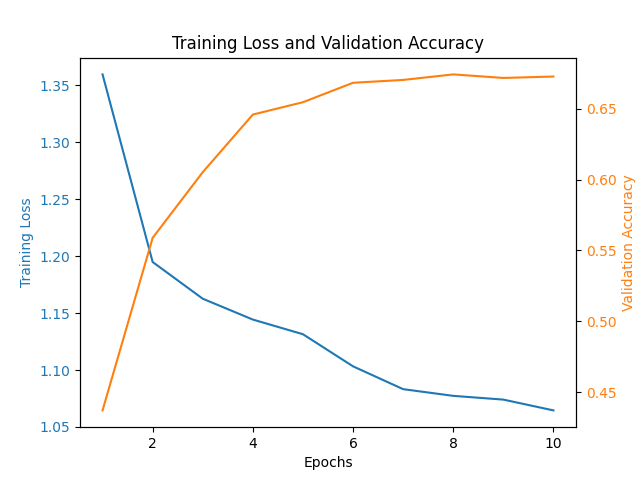
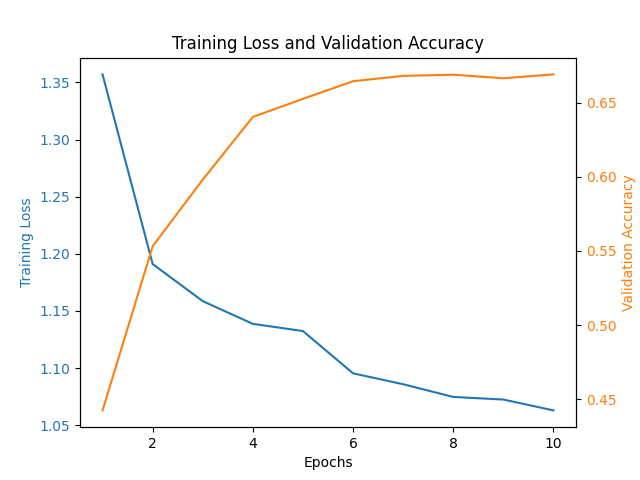
Added the hyperparameter training.

diff --git a/hyperparameter-training.py b/hyperparameter-training.py
@@ -1,0 +1,185 @@
+
+#learn rate and batch sizes
+for learn_rate in [1e-2,1e-3,1e-4]:
+  for batch_sizes in [64,128,256]:
+    import numpy as np
+    import matplotlib.pyplot as plt
+    from torchvision import datasets
+    import os
+
+
+    class MLP:
+        def __init__(self, input_size, hidden_size1, hidden_size2, output_size, weight_scale):
+            # initializes weights and biases for each layer
+            self.W1 = np.random.randn(input_size, hidden_size1) * weight_scale
+            self.b1 = np.zeros((1, hidden_size1))
+            self.W2 = np.random.randn(hidden_size1, hidden_size2) * weight_scale
+            self.b2 = np.zeros((1, hidden_size2))
+            self.W3 = np.random.randn(hidden_size2, output_size) * weight_scale
+            self.b3 = np.zeros((1, output_size))
+
+        def forward(self, x):
+            # forwards pass through the network
+            self.x = x  # input for backpropagation
+            self.z1 = x @ self.W1 + self.b1  # linear transformation for layer 1
+            self.a1 = self.relu(self.z1)  # ReLU activation
+            self.z2 = self.a1 @ self.W2 + self.b2  # linear transformation for layer 2
+            self.a2 = self.relu(self.z2)  # ReLU activation
+            self.z3 = self.a2 @ self.W3 + self.b3  # linear transformation for layer 3
+            self.a3 = self.softmax(self.z3)  # applies softmax to get class probabilities
+            return self.a3  # output of the network
+
+        def backward(self, y, lr):
+            # backwards pass for weight updates using gradient descent
+            m = y.shape[0]
+            y_one_hot = self.one_hot_encode(y, self.W3.shape[1]) # converts labels to one-hot encoding
+
+            # computes gradients for each layer
+            dz3 = self.a3 - y_one_hot  # gradient for output layer
+            dw3 = (self.a2.T @ dz3) / m
+            db3 = np.sum(dz3, axis=0, keepdims=True) / m
+
+            dz2 = (dz3 @ self.W3.T) * self.relu_deriv(self.z2)  # gradient for layer 2
+            dw2 = (self.a1.T @ dz2) / m
+            db2 = np.sum(dz2, axis=0, keepdims=True) / m
+
+            dz1 = (dz2 @ self.W2.T) * self.relu_deriv(self.z1)  # gradient for layer 1
+            dw1 = (self.x.T @ dz1) / m
+            db1 = np.sum(dz1, axis=0, keepdims=True) / m
+
+            # updates weights and biases using gradient descent
+            self.W3 -= lr * dw3
+            self.b3 -= lr * db3
+            self.W2 -= lr * dw2
+            self.b2 -= lr * db2
+            self.W1 -= lr * dw1
+            self.b1 -= lr * db1
+
+        @staticmethod
+        def relu(x):
+            # ReLU activation
+            return np.maximum(0, x)
+
+        @staticmethod
+        def relu_deriv(x):
+            # derivation of ReLU activation for backpropagation
+            return (x > 0).astype(float)
+
+        @staticmethod
+        def softmax(x):
+            # softmax function normalizes outputs to probabilities
+            e_x = np.exp(x - np.max(x, axis=1, keepdims=True))  # exponentiates inputs
+            return e_x / np.sum(e_x, axis=1, keepdims=True) # normalizes to get probabilities
+
+        @staticmethod
+        def one_hot_encode(y, num_classes):
+            # converts labels to one-hot encoded format
+            return np.eye(num_classes)[y]
+
+        @staticmethod
+        def cross_entropy_loss(y, y_hat):
+            # computes cross-entropy loss between true labels and predicted probabilities
+            m = y.shape[0]
+            m = y.shape[0]
+            eps = 1e-12
+            y_hat_clipped = np.clip(y_hat, eps, 1. - eps)
+            log_probs = -np.log(y_hat_clipped[np.arange(m), y])
+            return np.mean(log_probs)
+
+        def fit(self, x_train, y_train, x_val, y_val, lr, epochs, batch_size):
+            train_losses = []
+            val_accuracies = []
+
+            for epoch in range(1, epochs + 1):
+                perm = np.random.permutation(x_train.shape[0]) # Shuffle the training data
+                x_train_shuffled, y_train_shuffled = x_train[perm], y_train[perm]
+
+                epoch_loss = 0.0
+                num_batches = int(np.ceil(x_train.shape[0] / batch_size))
+
+                for i in range(num_batches):
+                    start = i * batch_size
+                    end = start + batch_size
+                    x_batch = x_train_shuffled[start:end] # batch of inputs
+                    y_batch = y_train_shuffled[start:end] # batch of labels
+
+                    # Forward pass, backward pass, and weight update
+                    self.forward(x_batch)
+                    self.backward(y_batch, lr)
+
+                    epoch_loss += self.cross_entropy_loss(y_batch, self.a3) # updating the epoch loss
+
+                epoch_loss /= num_batches # average loss is defined
+                train_losses.append(epoch_loss)
+
+                val_pred = self.predict(x_val)
+                val_acc = np.mean(val_pred == y_val)
+                val_accuracies.append(val_acc) \
+
+                print(f"Epoch {epoch:02d} | Training Loss: {epoch_loss:.4f} | Value Accuracy: {val_acc:.4f}")
+
+            self.plot_graph(train_losses, val_accuracies)
+            return val_accuracies[-1]
+
+        def plot_graph(self, train_losses, val_accuracies):
+            if not os.path.exists('results'):
+                os.makedirs('results') # creates results director
+
+            fig, ax1 = plt.subplots() # initializes the plot
+
+            ax1.set_xlabel('Epochs')
+            ax1.set_ylabel('Training Loss', color='tab:blue')
+            ax1.plot(range(1, len(train_losses) + 1), train_losses, color='tab:blue', label='Training Loss')
+            ax1.tick_params(axis='y', labelcolor='tab:blue') # defines loss subplot
+
+            ax2 = ax1.twinx()
+            ax2.set_ylabel('Validation Accuracy', color='tab:orange')
+            ax2.plot(range(1, len(val_accuracies) + 1), val_accuracies, color='tab:orange', label='Validation Accuracy')
+            ax2.tick_params(axis='y', labelcolor='tab:orange') # defines accuracy subplot
+
+            plt.title('Training Loss and Validation Accuracy over Epochs')
+
+            result_path = 'results/hyperparameter-training-output.png' # defines the file name
+            fig.savefig(result_path)
+            print(f"Graph saved to: {result_path}")
+
+        def predict(self, x): # predicts class labels for the input data
+            probs = self.forward(x)  # forwards pass to get probabilities
+            return np.argmax(probs, axis=1)  # returns the class with highest probability
+
+    # acquiring the FashionMNIST dataset
+    train_set = datasets.FashionMNIST(root='.', train=True, download=True)
+    test_set = datasets.FashionMNIST(root='.', train=False, download=True)
+
+    # preprocessing the data by flattening images and normalizing them.
+    x_train = train_set.data.numpy().reshape(-1, 28 * 28).astype(np.float32) / 255.0
+    y_train = train_set.targets.numpy()
+
+    x_test = test_set.data.numpy().reshape(-1, 28 * 28).astype(np.float32) / 255.0
+    y_test = test_set.targets.numpy()
+
+    # MLP initialization
+    mlp = MLP(
+        input_size=28 * 28,
+        hidden_size1=256,
+        hidden_size2=256,
+        output_size=10,
+        weight_scale=1e-2
+    )
+
+    # trains the model
+    mlp.fit(
+        x_train=x_train,
+        y_train=y_train,
+        x_val=x_test,
+        y_val=y_test,
+        lr=learn_rate,
+        epochs=100,
+        batch_size=batch_sizes
+    )
+
+    # tests the model
+    test_pred = mlp.predict(x_test)
+    test_acc = np.mean(test_pred == y_test)
+    print("Test:" + str(learn_rate) + " "+  str(batch_sizes))
+    print(f"\nFinal test accuracy: {test_acc:.4f}")
